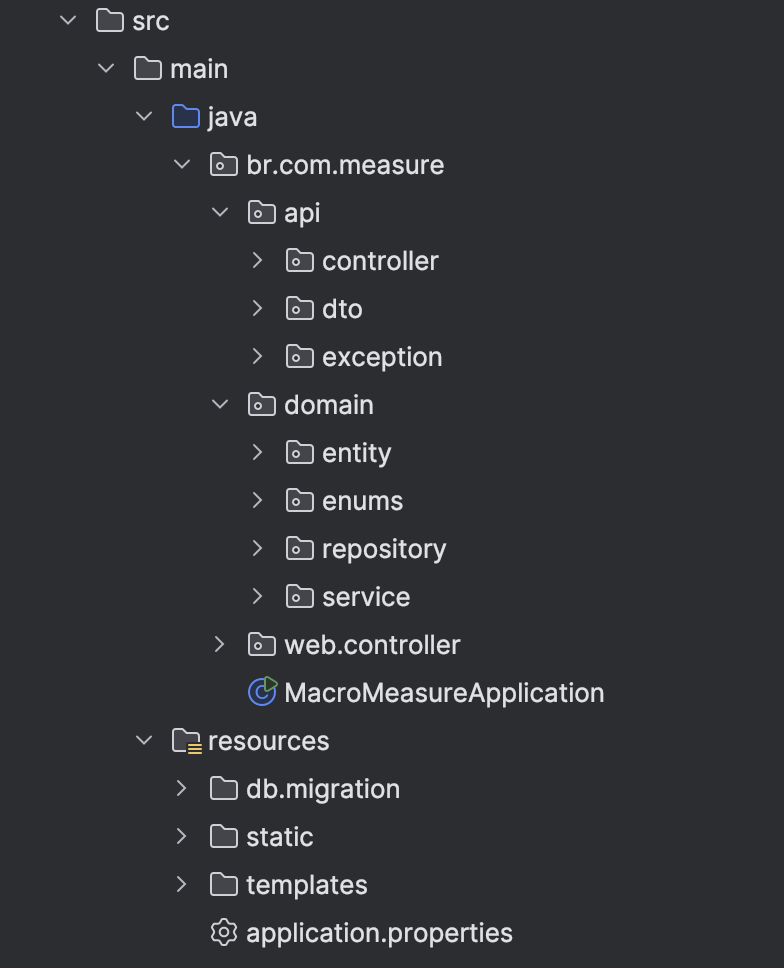
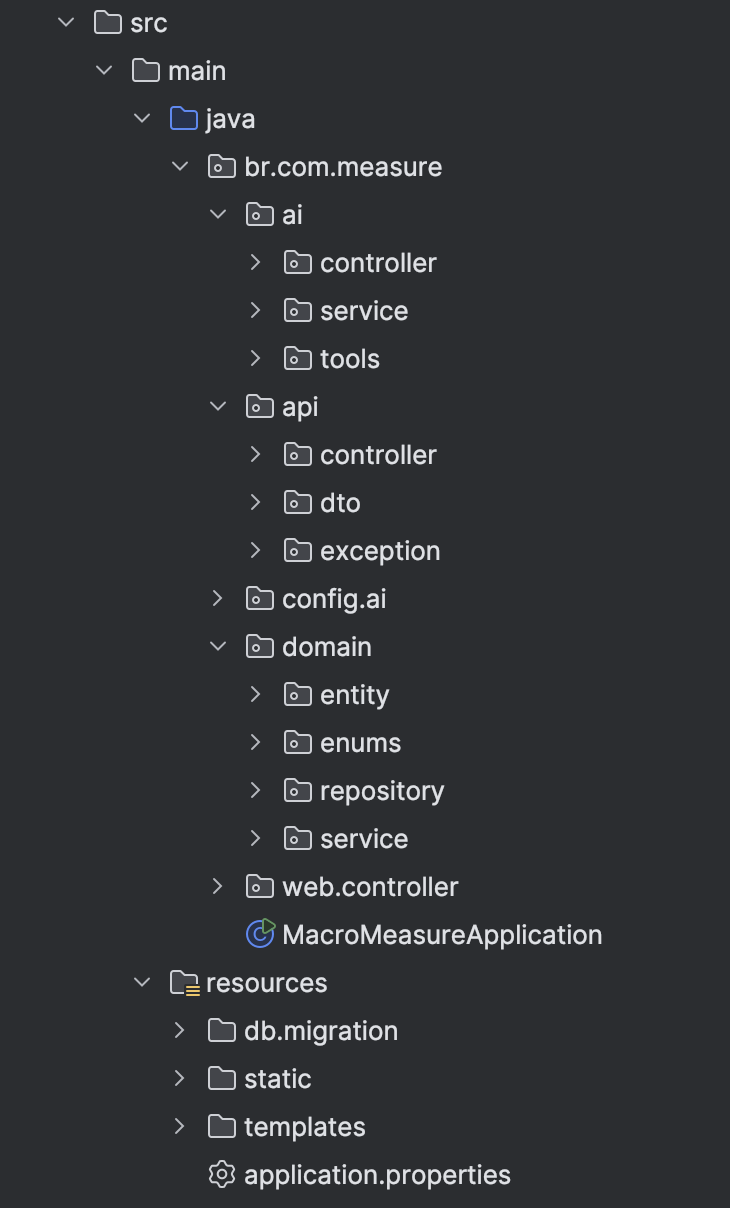
docs(readme): Atualiza o README com a arquitetura do Agente de IA (LangChain4j)

Changed region(s): [[0.1205, 0.0, 0.8137, 0.9917]]

diff --git a/README.md b/README.md
@@ -1,11 +1,14 @@
-# Macro Measure  माप
+# Macro Measure 
 
 ![Status](https://img.shields.io/badge/status-em%20desenvolvimento-yellow)
 ![Java](https://img.shields.io/badge/Java-21-blue)
 ![Spring Boot](https://img.shields.io/badge/Spring%20Boot-3.3.0-brightgreen)
+![LangChain4j](https://img.shields.io/badge/LangChain4j-AI%20Agent-blueviolet)
 ![Licença](https://img.shields.io/badge/licença-MIT-lightgrey)
 
-Aplicação web full-stack para digitalizar e gerenciar a medição de amostras patológicas. Construída com uma API RESTful para integrações e um dashboard completo para CRUD de amostras, pacientes e médicos. Stack: Java 21, Spring Boot, JPA, Hibernate, Thymeleaf, Oracle e Flyway.
+Aplicação web full-stack para digitalizar e gerenciar a medição de amostras patológicas. Construída com uma API RESTful, um dashboard completo para CRUD (Amostras, Pacientes, Médicos) e um **Assistente de IA** integrado com LangChain4j.
+
+**Stack Principal:** Java 21, Spring Boot, LangChain4j, OpenAI, JPA, Hibernate, Thymeleaf, Oracle e Flyway.
 
 ---
 
@@ -13,6 +16,7 @@ Aplicação web full-stack para digitalizar e gerenciar a medição de amostras 
 
 - [Sobre o Projeto](#-sobre-o-projeto)
 - [✨ Principais Funcionalidades](#-principais-funcionalidades)
+- [🤖 Assistente de IA](#-assistente-de-ia)
 - [📸 Screenshots](#-screenshots)
 - [🛠 Pilha de Tecnologias](#-pilha-de-tecnologias)
 - [🏛 Arquitetura do Projeto](#-arquitetura-do-projeto)
@@ -28,15 +32,36 @@ Aplicação web full-stack para digitalizar e gerenciar a medição de amostras 
 
 O **Macro Measure** é uma aplicação web full-stack desenvolvida em Java para a DASA, com o objetivo de modernizar e otimizar o processo de medição de amostras patológicas. A solução substitui processos manuais por um fluxo de trabalho digital, centralizado e rastreável, garantindo maior precisão, integridade dos dados e eficiência operacional.
 
+Além das funcionalidades de gerenciamento, o projeto conta com um **Assistente de IA** que permite aos usuários consultar dados complexos do sistema usando linguagem natural.
+
 ---
 
 ### ✨ Principais Funcionalidades
 
 - **Gerenciamento de Amostras:** CRUD completo para registrar, visualizar, editar e excluir medições de amostras.
 - **Gerenciamento de Pacientes e Médicos:** Cadastros dedicados para pacientes e médicos, permitindo a associação correta com as amostras.
+- **Assistente de IA Conversacional:** Um chatbot integrado que utiliza `LangChain4j` para responder perguntas complexas sobre os dados, como "liste as amostras do Dr. Fernando com status FINALIZADO" ou "qual o CPF do paciente Ygor?".
 - **Dashboard Interativo:** Tela principal para listagem de amostras com funcionalidades de ordenação e acesso rápido aos detalhes.
 - **Visualização Detalhada:** Uma tela de detalhes moderna em formato de widgets para cada amostra, facilitando a visualização rápida das informações.
 - **API RESTful:** Endpoints REST para todas as entidades principais, permitindo integrações futuras com outros sistemas.
+
+---
+
+### 🤖 Assistente de IA
+
+O núcleo de IA do projeto é construído sobre o `dev.langchain4j` e segue a arquitetura de **Agente & Ferramentas**:
+
+- **Agente (`MacroMeasureAgent`):** Uma interface `@AiService` define a "constituição" (system prompt) do agente, instruindo-o sobre como se comportar e quais ferramentas ele pode usar.
+- **Ferramentas (`MacroMeasureTools`):** Uma classe `@Component` que atua como uma "ponte". Ela injeta os `Services` de negócio do Spring (ex: `PacienteService`, `MedicoService`) e expõe métodos Java seguros para o agente, anotados com `@Tool`.
+- **Funcionamento:** Quando um usuário envia uma pergunta (ex: "quantas amostras o paciente ID 8 tem?"), o Agente:
+    1.  Analisa a pergunta.
+    2.  Consulta sua "constituição" (`@SystemMessage`).
+    3.  Escolhe a ferramenta Java correta: `contarMedicoes(pacienteId=8, ...)`.
+    4.  A ferramenta `@Tool` executa a lógica de negócio em Java (filtrando em `MedicaoAmostraService`).
+    5.  A ferramenta retorna o resultado (ex: `long 2`).
+    6.  O Agente formata esse resultado em uma resposta amigável (ex: "O paciente ID 8 possui 2 amostras.").
+
+Essa arquitetura garante que a IA nunca acesse o banco de dados diretamente, mantendo a segurança e a precisão dos dados, ao mesmo tempo que oferece uma interface de usuário poderosa e flexível.
 
 ---
 
@@ -44,29 +69,26 @@ O **Macro Measure** é uma aplicação web full-stack desenvolvida em Java para 
 
 Esta seção apresenta as principais telas da aplicação, demonstrando o fluxo de uso e o design da interface.
 
-#### **1. Página Inicial**
+#### 1. Página Inicial
 A porta de entrada do projeto, com uma apresentação incorporada que detalha os objetivos e funcionalidades do Macro Measure.
-
 ![Página de boas-vindas](src/main/resources/static/img/Home-1.png)
 
-![Apresentação do Projeto](src/main/resources/static/img/Home-2.png)
-
-#### **2. Dashboard Principal**
+#### 2. Dashboard Principal
 A tela central para o gerenciamento de amostras, exibindo os registros em uma tabela interativa com opções de ordenação e acesso rápido às ações.
-
 ![Controle de Amostras](src/main/resources/static/img/DashBoard.png)
 
-#### **3. Tela de Detalhes da Amostra**
+#### 3. Tela de Detalhes da Amostra
 Visualização detalhada de uma medição específica, apresentada em um layout de widgets para facilitar a leitura rápida e clara das informações.
-
 ![Detalhes da Amostra](src/main/resources/static/img/dashboard:detalhes.png)
 
-#### **4. Formulário de Cadastro**
+#### 4. Formulário de Cadastro
 O formulário para registrar uma nova medição, com campos para associar pacientes, médicos e inserir todas as dimensões e observações da amostra.
-
 ![Formulário - Parte 1](src/main/resources/static/img/Nova-medicao-1.png)
 
-![Formulário - Parte 2](src/main/resources/static/img/Nova-medicao-2.png)
+#### 5. Assistente de IA (Chatbot)
+A interface de chat onde os usuários podem interagir com o Agente LangChain4j para fazer consultas em linguagem natural.
+*(Sugestão: Adicione aqui um screenshot da sua tela `chatbot.html` em funcionamento!)*
+![Assistente de IA](src/main/resources/static/img/Chat-Bot.png)
 
 ---
 
@@ -81,10 +103,14 @@ A aplicação foi construída utilizando tecnologias modernas e robustas do ecos
     - `Spring Data JPA` (Para persistência de dados de forma simplificada)
     - `Hibernate` (Framework ORM para mapeamento objeto-relacional)
 
+- **Inteligência Artificial (Agente):**
+    - `LangChain4j` (Framework de Agente de IA e integração com LLMs)
+    - `langchain4j-spring-boot-starter` (Para integração nativa com Spring)
+    - `OpenAI` (Modelo de LLM `gpt-3.5-turbo` utilizado pelo agente)
+
 - **Frontend:**
     - `Thymeleaf` (Motor de templates para renderização no lado do servidor)
-    - `HTML5` & `CSS3`
-    - `Bootstrap 5` (Para componentização e responsividade)
+    - `HTML5` & `CSS3` (com Bootstrap 5)
 
 - **Banco de Dados:**
     - `Oracle Database`
@@ -92,32 +118,31 @@ A aplicação foi construída utilizando tecnologias modernas e robustas do ecos
 
 - **Ferramentas e Outros:**
     - `Maven` (Gerenciador de dependências e build do projeto)
-    - `Lombok` (Para redução de código boilerplate em entidades e DTOs)
+    - `Lombok` (Para redução de código boilerplate)
     - `SpringDoc (OpenAPI/Swagger)` (Para documentação automática da API)
 
 ---
 
 ### 🏛 Arquitetura do Projeto
 
-O projeto segue uma **Arquitetura em Camadas** clássica, promovendo a separação de responsabilidades, alta coesão e baixo acoplamento entre os componentes.
+O projeto segue uma **Arquitetura em Camadas** clara, promovendo a separação de responsabilidades.
 
-![Continuaçao](src/main/resources/static/img/Arquitetura-de-projeto.png)
+![Arquitetura do Projeto](src/main/resources/static/img/Arquitetura-de-projeto.png)
 
 - **`domain`**: Camada de domínio, contendo:
     - **`entity`**: As classes que representam as tabelas do banco de dados (ex: `MedicaoAmostra`), anotadas com JPA.
-    - **`repository`**: As interfaces que estendem `JpaRepository`, responsáveis pela abstração do acesso aos dados.
-    - **`service`**: Onde reside a lógica de negócio principal da aplicação.
-    - **`enums`**: Enumerações utilizadas no domínio.
-
+    - **`repository`**: As interfaces `JpaRepository` responsáveis pela abstração do acesso aos dados.
+    - **`service`**: Onde reside a lógica de negócio principal (ex: `PacienteService`).
 - **`api`**: Camada de exposição da API REST, contendo:
-    - **`controller`**: Classes `@RestController` que definem os endpoints da API (ex: `/api/medicoes`).
-    - **`dto`**: Data Transfer Objects (DTOs) para desacoplar a API das entidades de domínio, seguindo o padrão Request/Response.
-    - **`exception`**: Classes para tratamento global de exceções da API.
-
-- **`web`**: Camada de apresentação web, contendo:
-    - **`controller`**: Classes `@Controller` responsáveis por renderizar as páginas Thymeleaf.
-
-Essa estrutura garante que a lógica de negócio (`service`) seja completamente independente tanto da forma como os dados são expostos (seja por uma API REST ou por uma página web) quanto da forma como são persistidos.
+    - **`controller`**: Classes `@RestController` (ex: `/api/medicoes`).
+    - **`dto`**: Data Transfer Objects (DTOs) para desacoplar a API das entidades.
+    - **`exception`**: Classes para tratamento global de exceções.
+- **`web`**: Camada de apresentação web (Frontend), contendo:
+    - **`controller`**: Classes `@Controller` responsáveis por renderizar as páginas Thymeleaf (ex: `DashboardController`).
+- **`ai`**: Camada do Agente de Inteligência Artificial, contendo:
+    - **`controller`**: O `@RestController` que expõe o chatbot.
+    - **`service`**: A interface `@AiService` que define o agente.
+    - **`tools`**: A classe `@Component` que define as `@Tools` que o agente pode usar.
 
 ---
 
@@ -127,27 +152,36 @@ Essa estrutura garante que a lógica de negócio (`service`) seja completamente 
 - JDK 21 ou superior
 - Maven 3.8+
 - Acesso a um banco de dados Oracle
+- Uma API Key da OpenAI
 
 **Passos:**
 
 1.  **Clone o repositório:**
     ```bash
-    git clone [https://github.com/seu-usuario/macro-measure.git](https://github.com/seu-usuario/macro-measure.git)
+    git clone [https://github.com/Carti011/Macro-Measure.git](https://github.com/Carti011/Macro-Measure.git)
     ```
+    *(Atualizei com a URL do seu `git status`)*
 
 2.  **Configure o Banco de Dados:**
     - Abra o arquivo `src/main/resources/application.properties`.
     - Altere as propriedades `spring.datasource.url`, `spring.datasource.username` e `spring.datasource.password` com as credenciais do seu banco de dados Oracle.
 
-3.  **Execute a aplicação:**
+3.  **Configure a API Key da OpenAI:**
+    - No mesmo arquivo `src/main/resources/application.properties`.
+    - Altere a propriedade `langchain4j.open-ai.chat-model.api-key` com sua chave da OpenAI.
+    - **(Recomendado)** Como melhor prática, remova a chave do arquivo e configure-a como uma variável de ambiente (`OPENAI_API_KEY`). O `AiConfig.java` está pronto para ler isso.
+
+4.  **Execute a aplicação:**
     - Navegue até a raiz do projeto e execute o seguinte comando no terminal:
     ```bash
     mvn spring-boot:run
     ```
 
-4.  **Acesse a aplicação:**
+5.  **Acesse a aplicação:**
     - **Página Inicial:** `http://localhost:8080/`
     - **Dashboard de Amostras:** `http://localhost:8080/dashboard`
+    - **Assistente de IA:** `http://localhost:8080/chatbot`
+    - **Documentação da API:** `http://localhost:8080/swagger-ui.html`
 
 ---
 
@@ -158,14 +192,13 @@ A documentação completa da API REST está disponível e é gerada automaticame
 - **Swagger UI:** `http://localhost:8080/swagger-ui.html`
 
 ![Documentação](src/main/resources/static/img/documentacao-1.png)
-
 ![Continuação](src/main/resources/static/img/documentacao-2.png)
 
 ---
 
 ### 🗃 Migrações do Banco de Dados
 
-O schema do banco de dados é gerenciado pelo **Flyway**. As migrações são arquivos SQL versionados e se encontram em `src/main/resources/db/migration`. O Flyway aplica automaticamente as migrações pendentes ao iniciar a aplicação, garantindo que o banco de dados esteja sempre sincronizado com a versão do código.
+O schema do banco de dados é gerenciado pelo **Flyway**. As migrações são arquivos SQL versionados e se encontram em `src/main/resources/db/migration`. O Flyway aplica automaticamente as migrações pendentes ao iniciar a aplicação.
 
 ![db/migration](src/main/resources/static/img/migration.png)
 
@@ -182,4 +215,4 @@ O schema do banco de dados é gerenciado pelo **Flyway**. As migrações são ar
 
 ### 📜 Licença
 
-Este projeto está sob a licença MIT. Veja o arquivo [LICENSE](LICENSE) para mais detalhes.
+Este projeto está sob a licença MIT.
